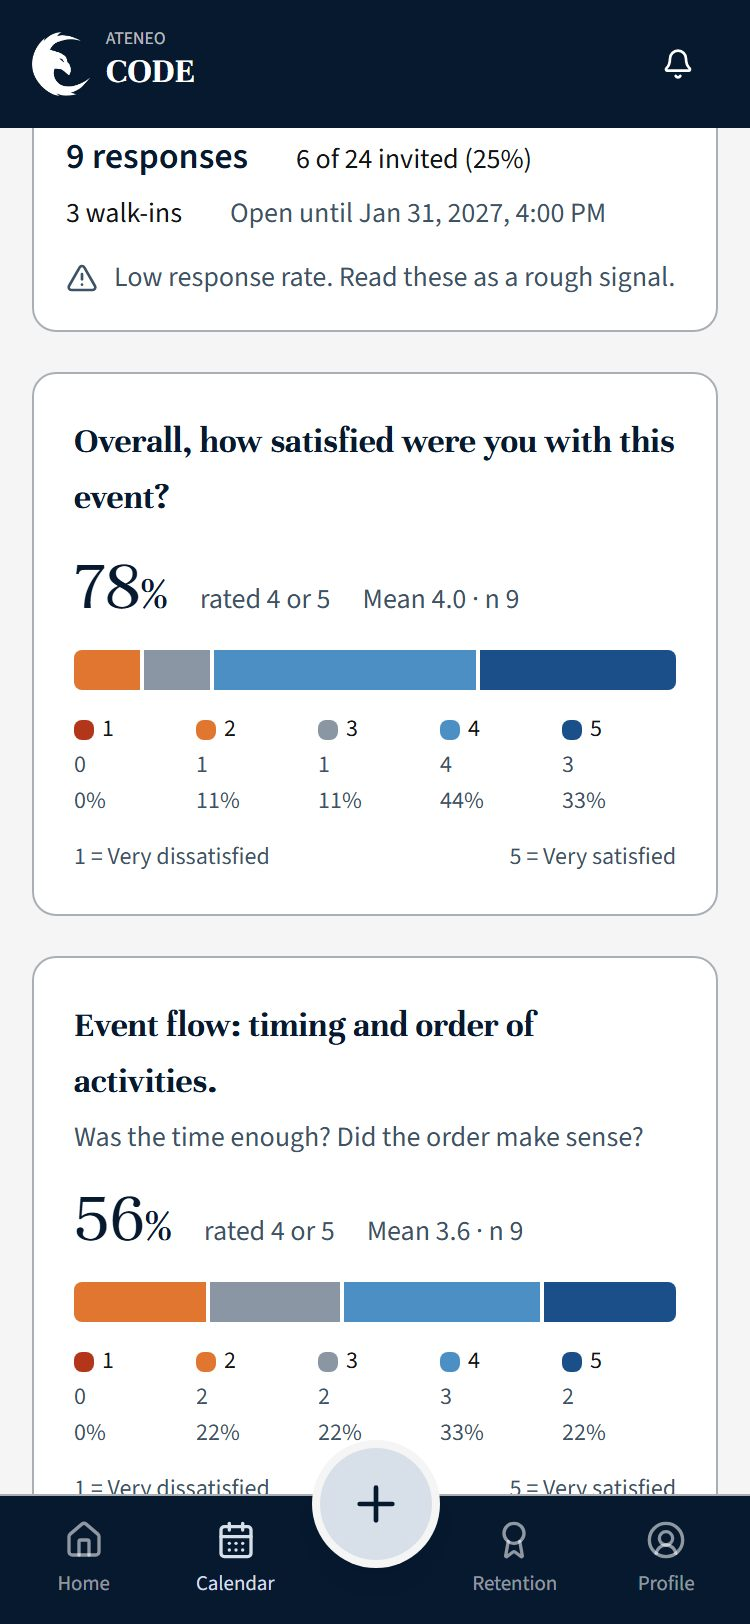
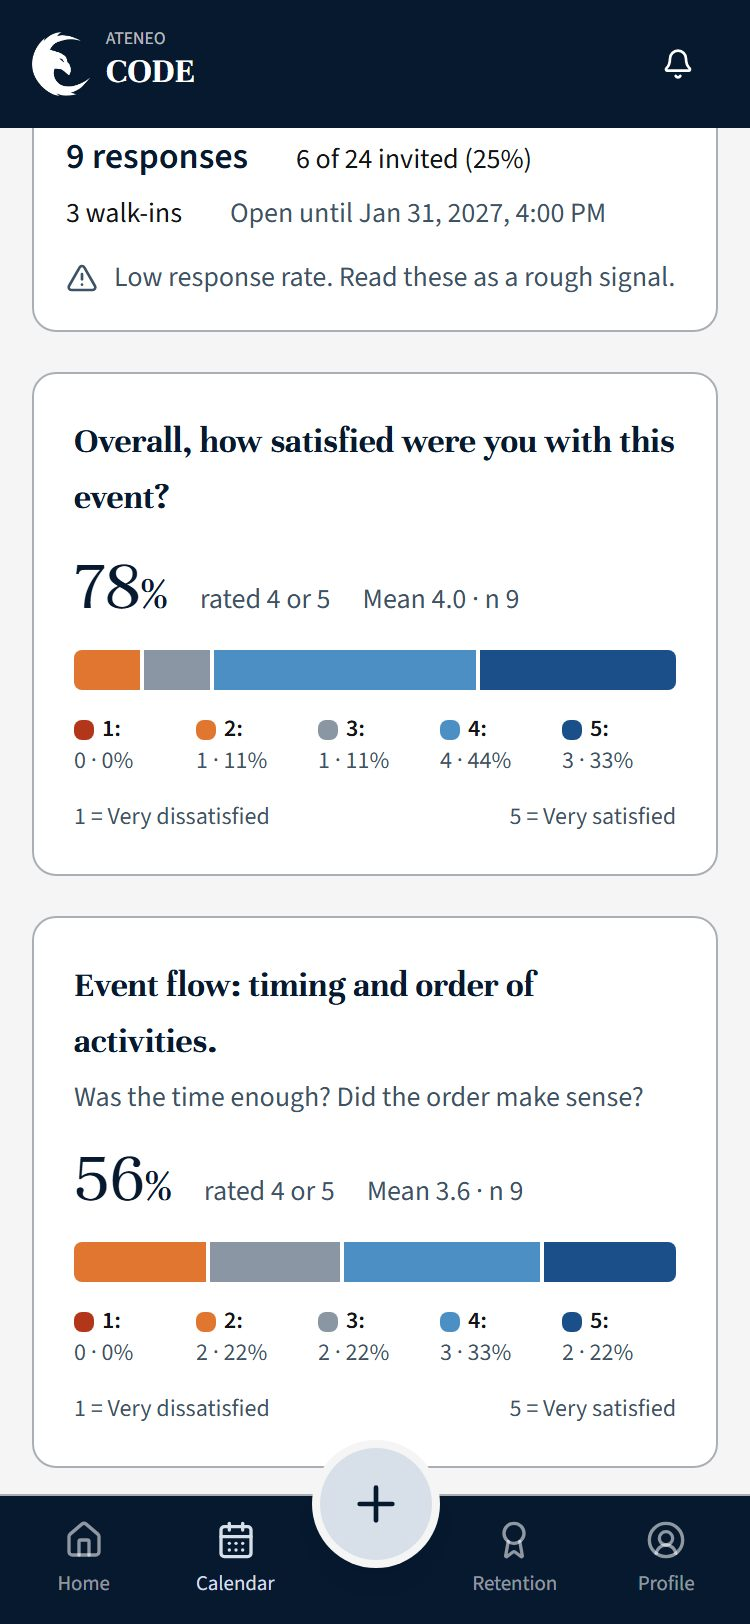
fix(feedback): put each rating's count and share on one line
The legend under each bar stacked the value, count and percent on three lines.
One line per value reads faster and shortens every rating card. Two guide
shots are reshot to match.

diff --git a/src/components/feedback/results.tsx b/src/components/feedback/results.tsx
@@ -92,13 +92,14 @@ export function ScaleResult({ question, eventType }: { question: ScaleQuestion; 
 			{/* The same numbers as the segments, in text, so colour is never the only way to read the bar. */}
 			<ul aria-hidden="true" className="grid grid-cols-5 gap-1 text-xs tabular-nums text-muted-foreground">
 				{summary.counts.map((count, index) => (
-					<li key={index} className="grid min-w-0 gap-0.5">
+					<li key={index} className="flex min-w-0 flex-wrap items-center gap-x-1.5">
 						<span className="flex items-center gap-1">
 							<span className="size-2.5 shrink-0 rounded-sm" style={{ backgroundColor: ratingColor(index + 1) }} />
-							<span className="font-medium text-foreground">{index + 1}</span>
+							<span className="font-semibold text-foreground">{index + 1}:</span>
 						</span>
-						<span>{count}</span>
-						<span>{percentOf(count, summary.n)}%</span>
+						<span>
+							{count} &middot; {percentOf(count, summary.n)}%
+						</span>
 					</li>
 				))}
 			</ul>

diff --git a/src/lib/guides/content.ts b/src/lib/guides/content.ts
@@ -509,9 +509,9 @@ export const GUIDES: Guide[] = [
 					device: "desktop",
 					callouts: [
 						{ x: 32.0, y: 10.6, label: "Share who rated 4 or 5, the mean, and n, the number of answers" },
-						{ x: 25.2, y: 42.9, label: "Common words. Tap one to filter." },
-						{ x: 35.4, y: 64.8, label: "Search the comments" },
-						{ x: 65.5, y: 76.9, label: "Hide a comment from organizers" },
+						{ x: 25.2, y: 38.4, label: "Common words. Tap one to filter." },
+						{ x: 35.4, y: 60.3, label: "Search the comments" },
+						{ x: 65.5, y: 72.4, label: "Hide a comment from organizers" },
 					],
 				},
 				tip: "Organizers see the comments without names. A hidden comment disappears from their view only. You still see it here.",
